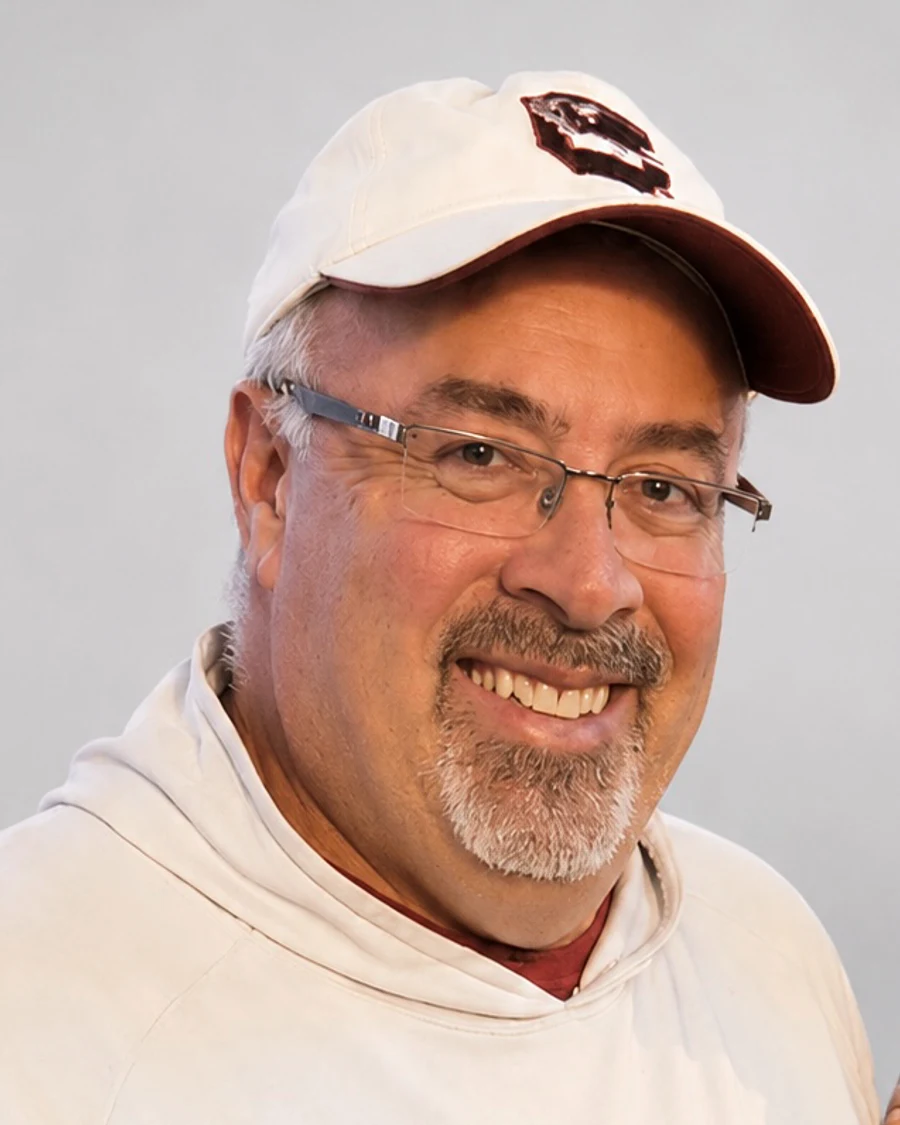
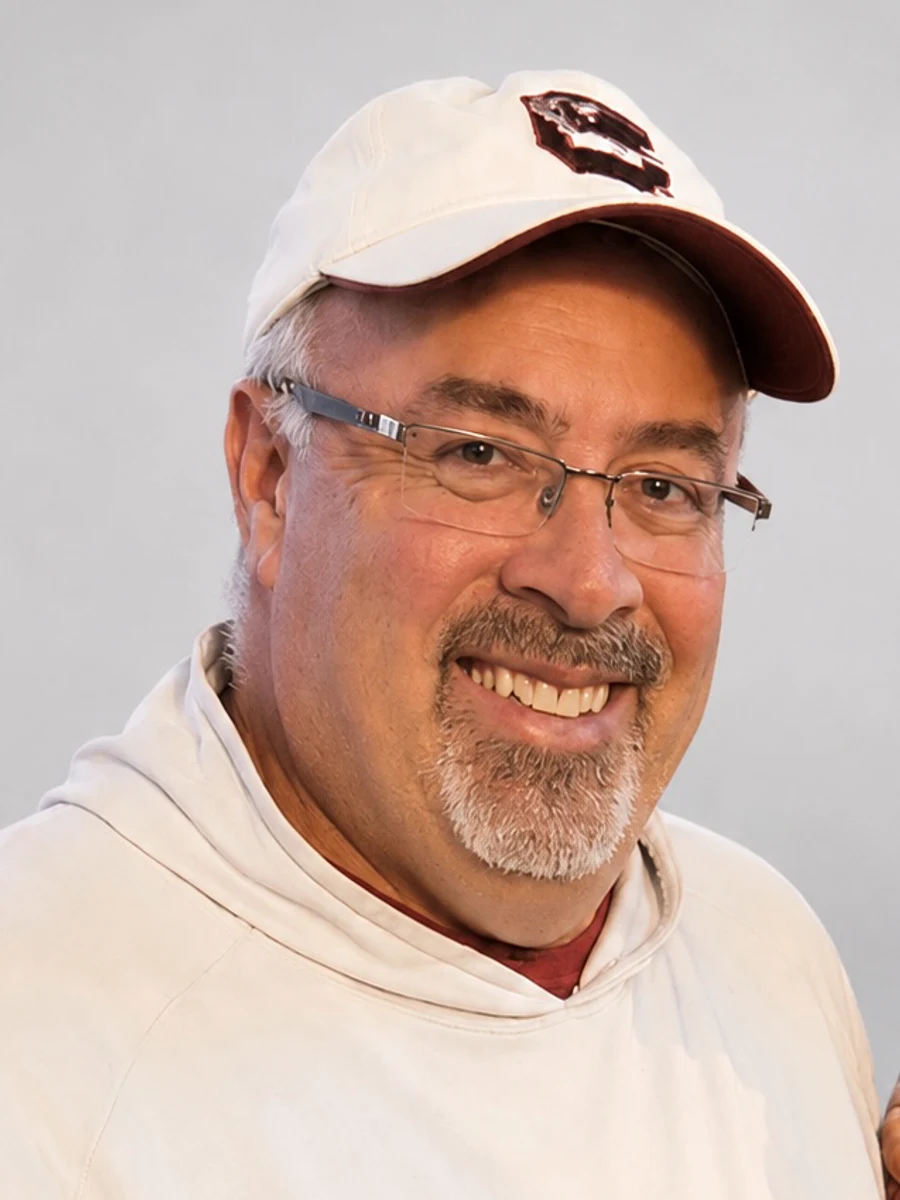
Photos to 3:4, and stop staging caching its own HTML
THE PHOTOS. Adam: "I like the rectangle photo layout" — 4:5 still read as
near-square at this card width. They are 3:4 now, and the source files were
re-cut to match rather than the container being cropped, so every head stays
the same height and the four eyelines stay on one line across the row.
Measured ratio 0.750, was 0.800.

THE CACHING. The client reported the same FAQ layout bug three times: a gap
where the accordion should be. It was never a layout bug — the accordions
measured full height at opacity 1 on the live site, 250ms after an instant
scroll, and the served markup has no .db-anim anywhere near them. It was the
previous build still sitting in their browser, which is also why the animation
they were asking me to remove kept reappearing after I had removed it.

Prerendered pages ship with a long s-maxage, so a phone will hold yesterday's
HTML happily. On staging that is the wrong trade: the whole point of the URL
is to see the newest thing. HTML there is now no-store, must-revalidate, and
carries X-Robots-Tag: noindex as a second guard beside robots.txt and the meta
tag. Keyed off NEXT_PUBLIC_NOINDEX, so production is untouched, and scoped to
exclude /_next and anything with an extension — hashed assets stay
public, max-age=31536000, immutable.

Verified on staging: HTML no-store, assets still immutable, all five routes
200, robots.txt still Disallow: /.

diff --git a/next.config.ts b/next.config.ts
@@ -17,7 +17,27 @@ const nextConfig: NextConfig = {
     contentDispositionType: "inline",
   },
   async headers() {
+    /* Staging must never be cached by a browser.
+       The client kept reporting layout bugs that were simply the previous
+       build still sitting in their browser — the pages are prerendered and
+       served with a long s-maxage, so a phone will happily hold yesterday's
+       HTML. On staging the point is to see the newest thing, not to be fast,
+       so HTML there is no-store. Production is untouched. */
+    const noStore =
+      process.env.NEXT_PUBLIC_NOINDEX === "1"
+        ? [
+            {
+              source: "/:path((?!_next|.*\\.).*)",
+              headers: [
+                { key: "Cache-Control", value: "no-store, must-revalidate" },
+                { key: "X-Robots-Tag", value: "noindex, nofollow" },
+              ],
+            },
+          ]
+        : [];
+
     return [
+      ...noStore,
       {
         source: "/dashboard.webp",
         headers: [

diff --git a/app/globals.css b/app/globals.css
@@ -2031,7 +2031,11 @@ html::-webkit-scrollbar-corner {
    that ratio preserves their headroom without an additional crop or zoom. */
 .db-team-card__photo {
   position: relative;
-  aspect-ratio: 4 / 5;
+  /* 3:4, not 4:5. Adam's note was "I like the rectangle photo layout" and 4:5
+     still read as near-square at this card width. The source crops are cut to
+     the same ratio, so the heads stay the same size and the eyelines stay on
+     one line across the row. */
+  aspect-ratio: 3 / 4;
   overflow: hidden;
   background: #d7dbe2;
 }
